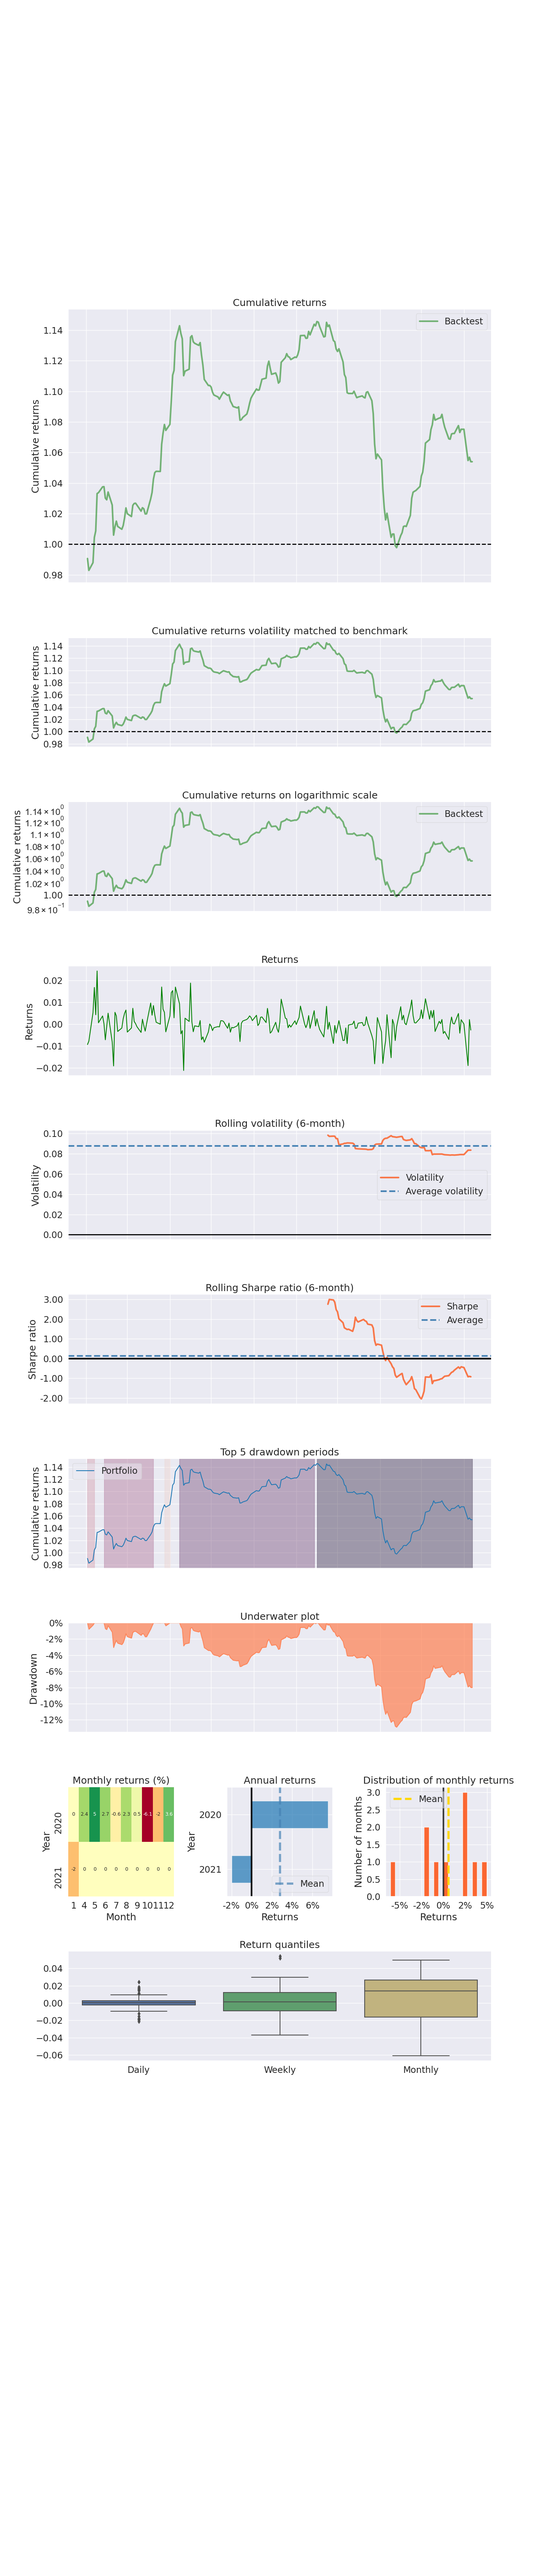
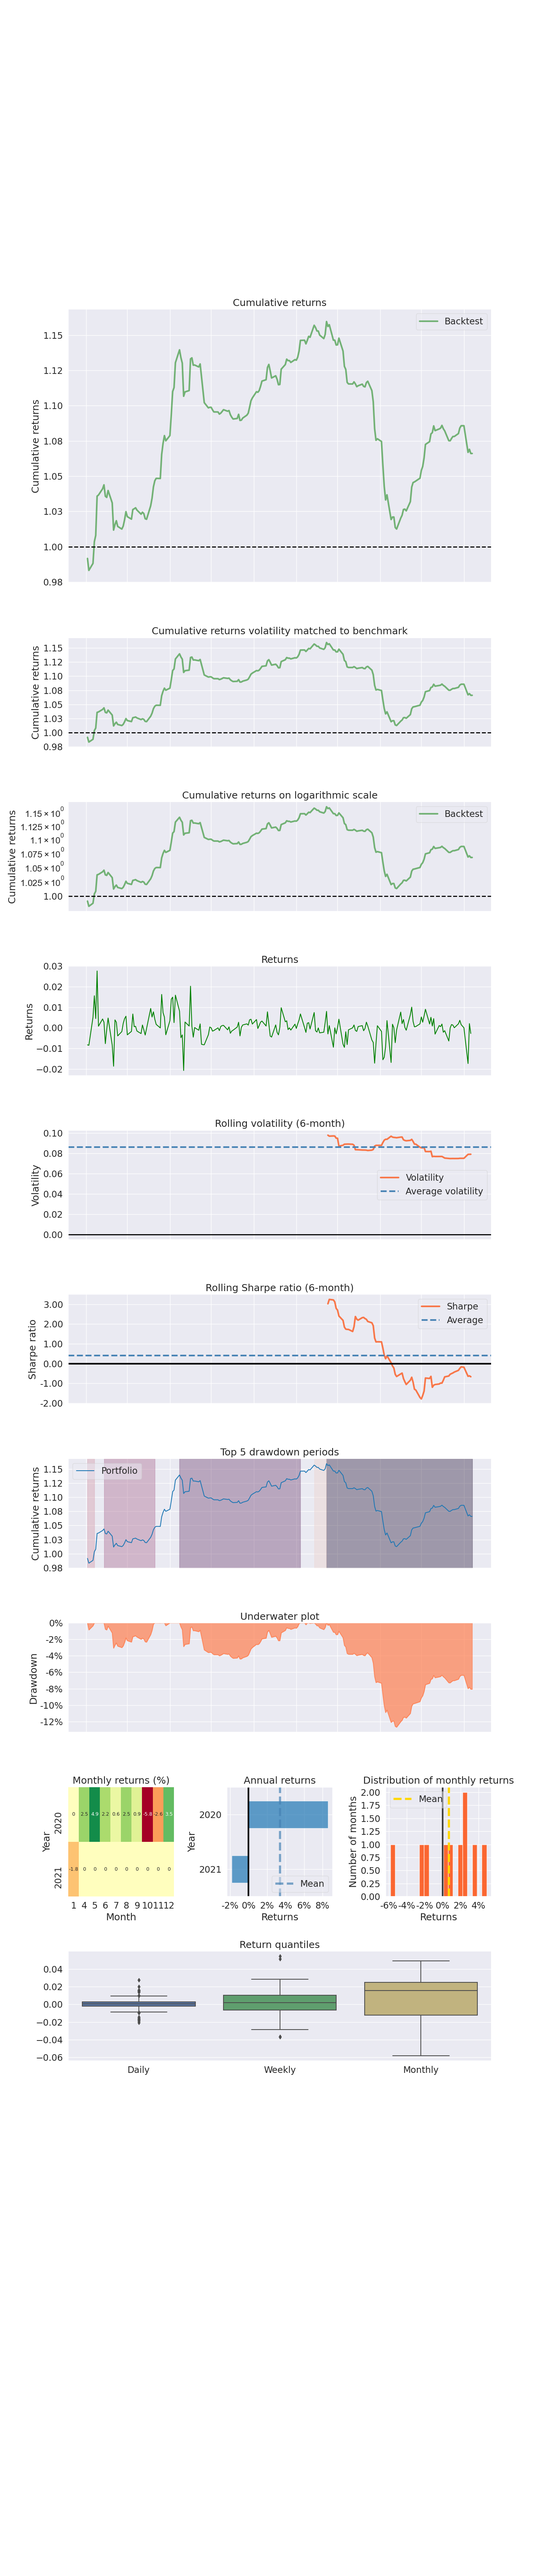
Adding g spreads

diff --git a/momentum.py b/momentum.py
@@ -16,8 +16,9 @@ from sklearn.metrics import (
     roc_curve,
 )
 from sklearn.model_selection import train_test_split, ParameterGrid, cross_val_score
+from sklearn.compose import ColumnTransformer
 from sklearn.pipeline import Pipeline, FeatureUnion
-from sklearn.preprocessing import StandardScaler, OneHotEncoder
+from sklearn.preprocessing import FunctionTransformer, StandardScaler, OneHotEncoder
 from sklearn.tree import DecisionTreeClassifier
 import matplotlib.pyplot as plt
 import pyfolio as pf
@@ -347,6 +348,15 @@ class MyPipeline(Pipeline):
         return super(MyPipeline, self).fit(X, y, **fit_params)
 
 
+def add_gspread(X: pd.DataFrame, treasury: pd.DataFrame) -> pd.DataFrame:
+    years = X.maturity / 365.25
+    X['nearest_index'] = np.searchsorted(treasury.columns, years)
+    grate = X.apply(lambda x: treasury.loc[x.name[0], treasury.columns[min(6, int(x.nearest_index))]], axis=1)
+    X['spread'] = X.ytm - grate / 100
+    X.drop(columns=['nearest_index'], inplace=True)
+    return X
+
+
 def trainModel(
     num_attribs: List[str],
     cat_attribs: List[str],
@@ -355,10 +365,19 @@ def trainModel(
     test_size: float = 0.3,
 ) -> Tuple[any]:
     security = "loans" if "covi_lite" in bool_attribs else "bonds"
+
+    if security == 'bonds':
+        treasury = pd.read_csv(prefix + f"{security}/treasury_data.csv",
+            parse_dates=[ "Dates" ],
+            index_col="Dates",
+        ).rename_axis('date')
+        treasury.columns = [1,2,3,5,7,10,30] #column name is the num of years of treasury index
+
     num_pipeline = Pipeline(
         [
             ("ytm", YieldAdder(security=security)),
             ("day_counter", DayCounterAdder()),
+            ("gspread", FunctionTransformer(add_gspread, kw_args={'treasury': treasury})),
             ("imputer", SimpleImputer(strategy="median")),
             ("std_scaler", StandardScaler()),
         ]
@@ -431,6 +450,9 @@ def trainModel(
         "ytm",
         *bool_attribs,
     ]
+
+    if security == 'bonds':
+        columns += ['spread']
     feature_importances = np.mean(
         [tree.feature_importances_ for tree in rf["rf"].estimators_], axis=0
     )
@@ -604,6 +626,7 @@ def data_pipeline(
     ratings_df: pd.DataFrame,
     t_params: Dict[str, any],
 ) -> pd.DataFrame:
+
     labels = getLabels(
         prices,
         trgtPrices=t_params["targetPrices"],
@@ -621,6 +644,7 @@ def data_pipeline(
     clfW = getWeightColumn(bins, prices)
     bins = pd.concat([bins, clfW], axis=1).rename_axis(["ticker", "date"])
     df = bins.join(desc)
+
     df = df.join(prices.rename_axis("ticker", axis="columns").unstack().rename("close"))
 
     df = df.reset_index(level="ticker")
